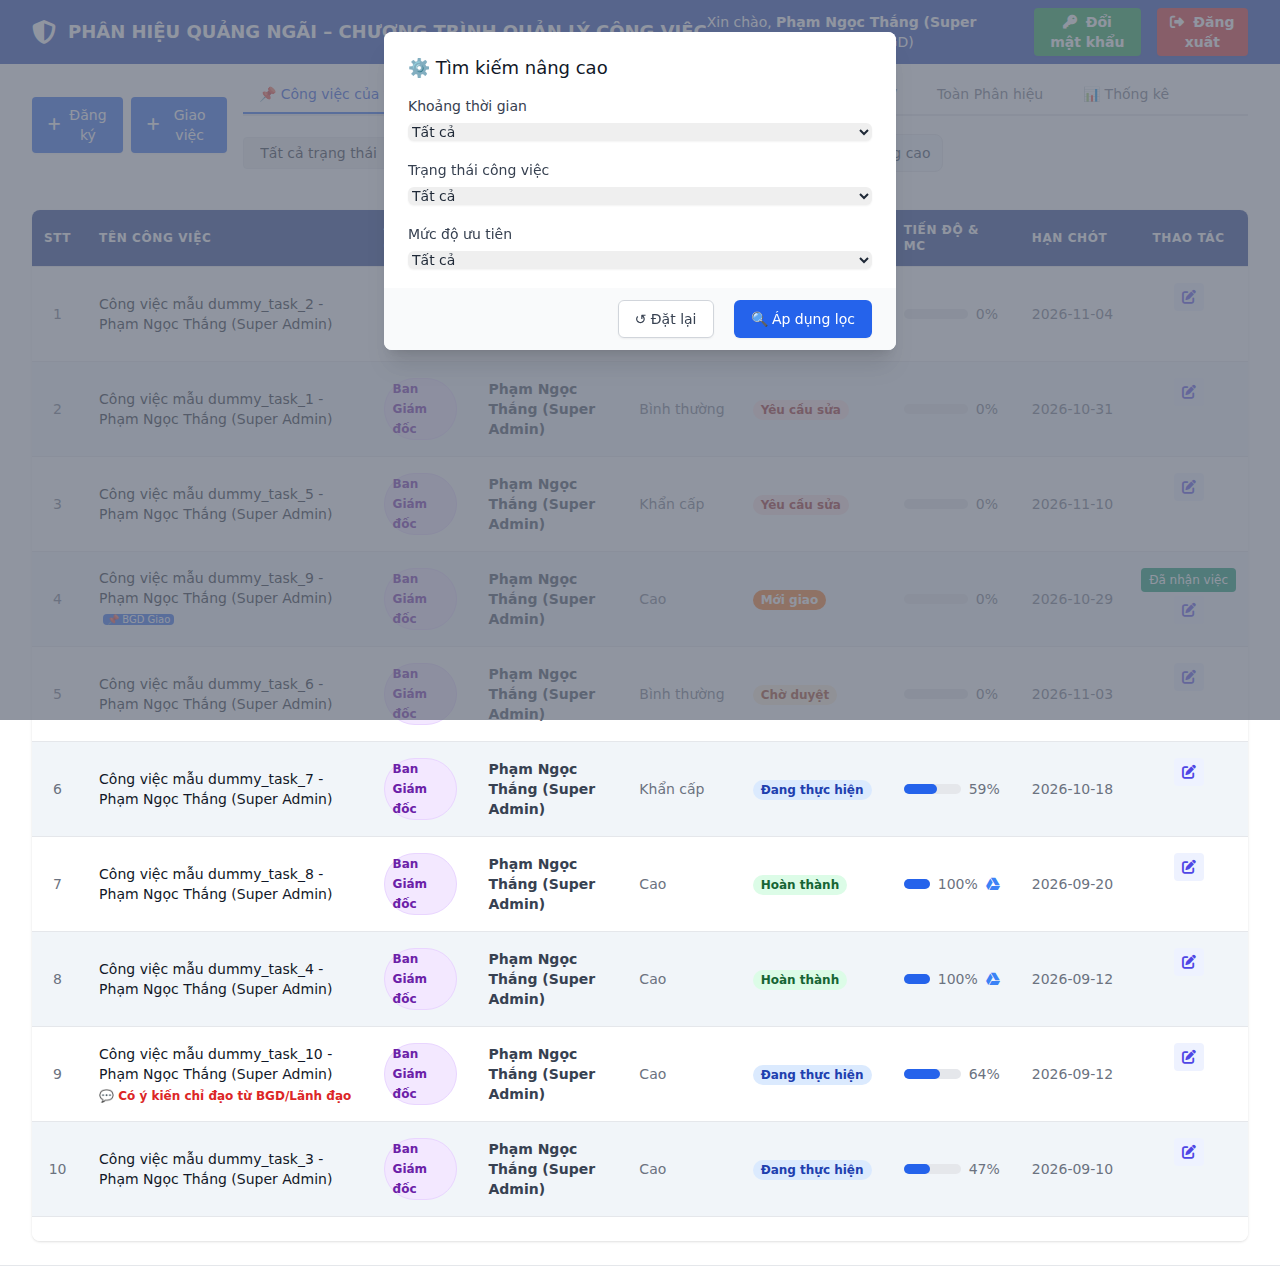
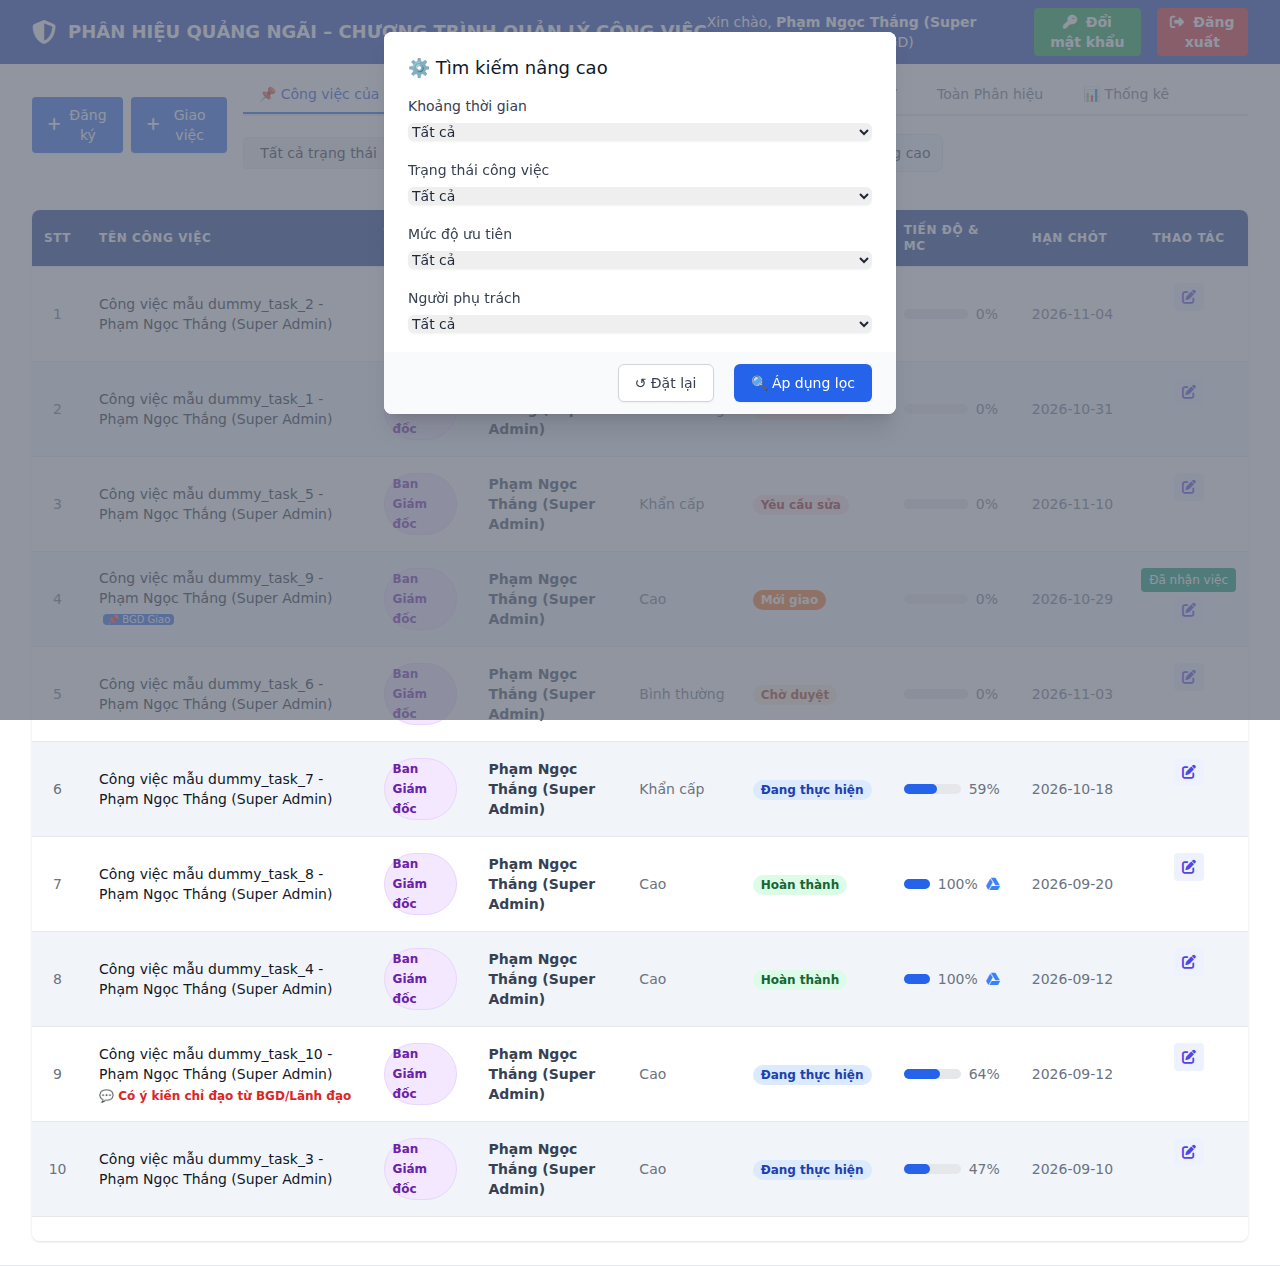
feat: add assignee filter to advanced search modal

Changed region(s): [[0.2812, 0.2156, 0.7188, 0.3389]]

diff --git a/js/modals.js b/js/modals.js
@@ -12,6 +12,15 @@ import { setCurrentUser } from "./store.js";
 // --- MODAL: WEEKLY TASK ---
 export function openAdvancedSearchModal() {
   document.getElementById("advancedSearchModal").classList.remove("hidden");
+
+  const assigneeSelect = document.getElementById("advSearchAssignee");
+  if (assigneeSelect && assigneeSelect.options.length <= 1) {
+    const allUsers = getAllUsers();
+    for (const key in allUsers) {
+      const u = allUsers[key];
+      assigneeSelect.innerHTML += `<option value="${u.fullName}">${u.fullName} (${u.deptCode})</option>`;
+    }
+  }
 }
 
 export function closeAdvancedSearchModal() {
@@ -22,10 +31,12 @@ export function resetAdvancedSearch() {
   const timeSelect = document.getElementById("advSearchTime");
   const statusSelect = document.getElementById("advSearchStatus");
   const prioritySelect = document.getElementById("advSearchPriority");
+  const assigneeSelect = document.getElementById("advSearchAssignee");
 
   if (timeSelect) timeSelect.value = "Tất cả";
   if (statusSelect) statusSelect.value = "Tất cả";
   if (prioritySelect) prioritySelect.value = "Tất cả";
+  if (assigneeSelect) assigneeSelect.value = "Tất cả";
 
   window.changePage(1);
   // Since renderTable is in tasks.js, and app.js listens, we can import renderTable or rely on window.changePage logic which calls renderTable.

diff --git a/js/tasks.js b/js/tasks.js
@@ -143,11 +143,14 @@ export function renderTable() {
   const advSearchTimeEl = document.getElementById("advSearchTime");
   const advSearchStatusEl = document.getElementById("advSearchStatus");
   const advSearchPriorityEl = document.getElementById("advSearchPriority");
+  const advSearchAssigneeEl = document.getElementById("advSearchAssignee");
+
   const advTime = advSearchTimeEl ? advSearchTimeEl.value : "Tất cả";
   const advStatus = advSearchStatusEl ? advSearchStatusEl.value : "Tất cả";
   const advPriority = advSearchPriorityEl
     ? advSearchPriorityEl.value
     : "Tất cả";
+  const advAssignee = advSearchAssigneeEl ? advSearchAssigneeEl.value : "Tất cả";
 
   let myTasksCount = 0;
 
@@ -201,6 +204,14 @@ export function renderTable() {
 
     if (advPriority !== "Tất cả") {
       if (task.priority !== advPriority) continue;
+    }
+
+    if (advAssignee !== "Tất cả") {
+      const matchPrimary = primary === advAssignee;
+      const matchSecondary = secondary.includes(advAssignee);
+      if (!matchPrimary && !matchSecondary) {
+        continue;
+      }
     }
 
     if (advTime !== "Tất cả" && task.deadline) {

diff --git a/index.html b/index.html
@@ -649,6 +649,13 @@
                                 <option value="Thấp">Thấp</option>
                             </select>
                         </div>
+                        <div>
+                            <label class="block text-sm font-medium text-gray-700 mb-1">Người phụ trách</label>
+                            <select id="advSearchAssignee" class="w-full border-gray-300 rounded-md shadow-sm focus:ring-blue-500 focus:border-blue-500 text-sm">
+                                <option value="Tất cả">Tất cả</option>
+                                <!-- Populated by JS -->
+                            </select>
+                        </div>
                     </div>
                 </div>
                 <div class="bg-gray-50 px-4 py-3 sm:px-6 sm:flex sm:flex-row-reverse gap-2">
